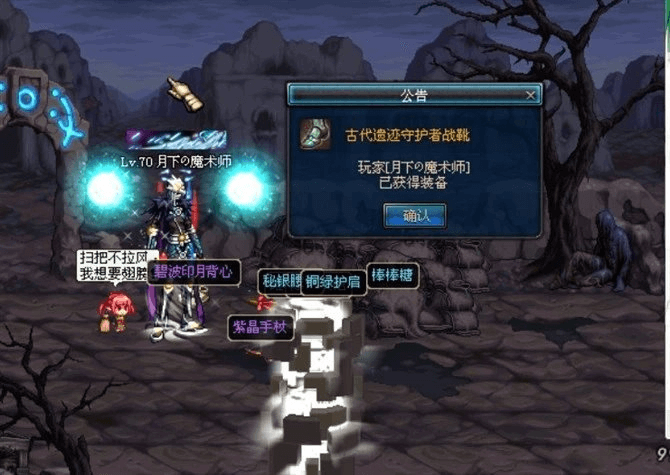
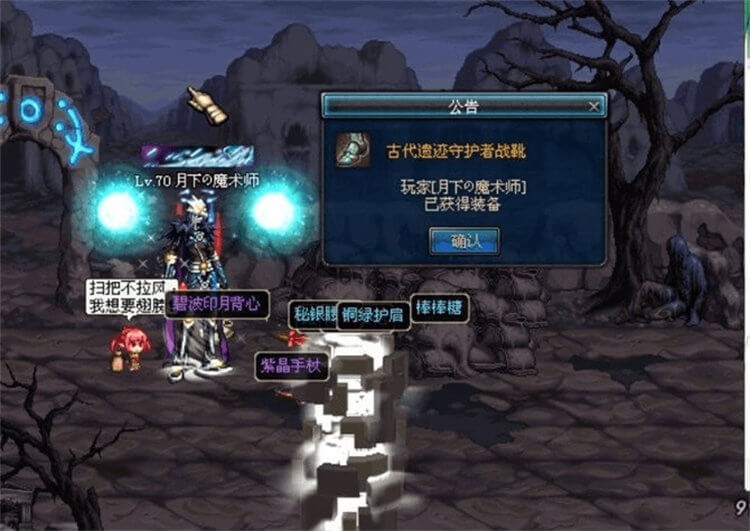
图片压缩

diff --git a/docs/.vuepress/public/script/index.js b/docs/.vuepress/public/script/index.js
@@ -125,7 +125,7 @@ function showImg(){
     if(p.top<scrollBottom + 100)
     {
       //alert(aTmg);
-      if(aTmg[i].className=='logo'){
+      if(aTmg[i].className=='logo'||aTmg[i].alt=='hero'){
         //logo 不用懒加载
       }else{
         aTmg[i].src=aTmg[i].getAttribute('_src');
